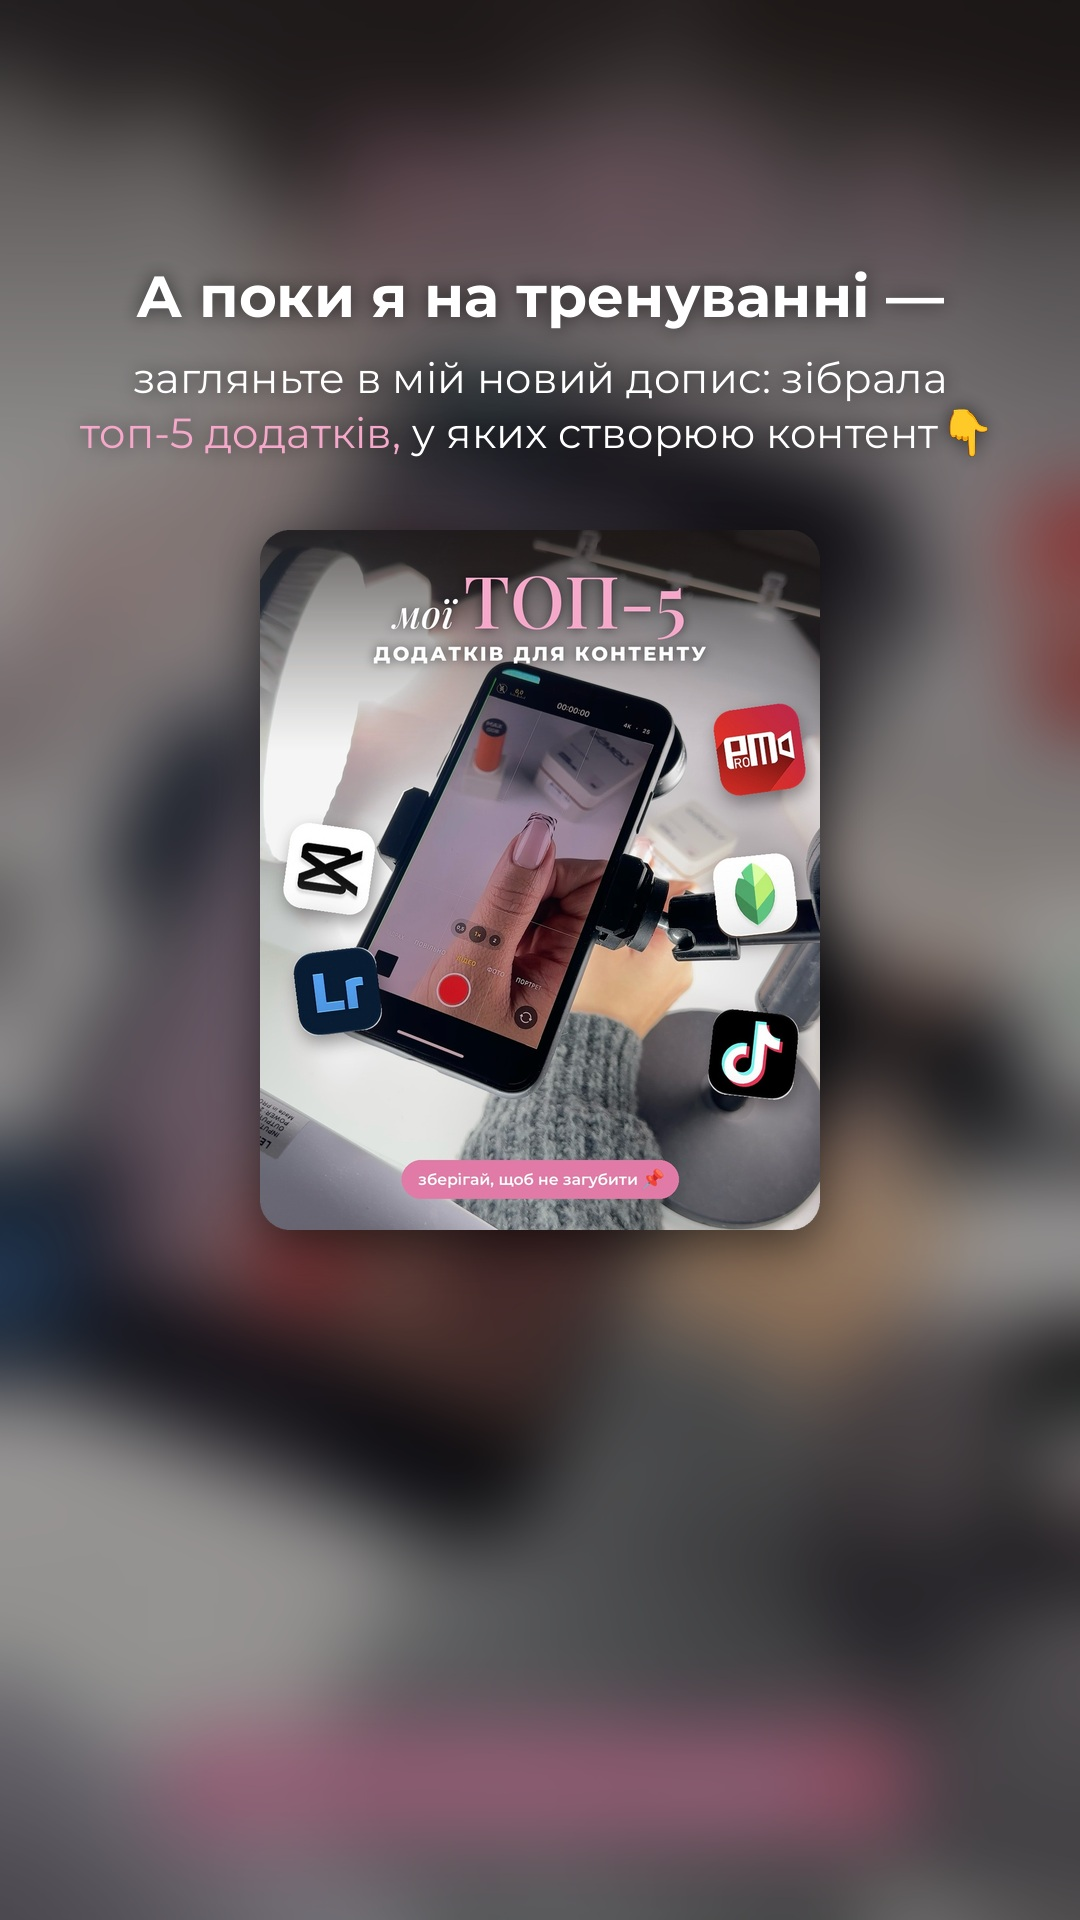
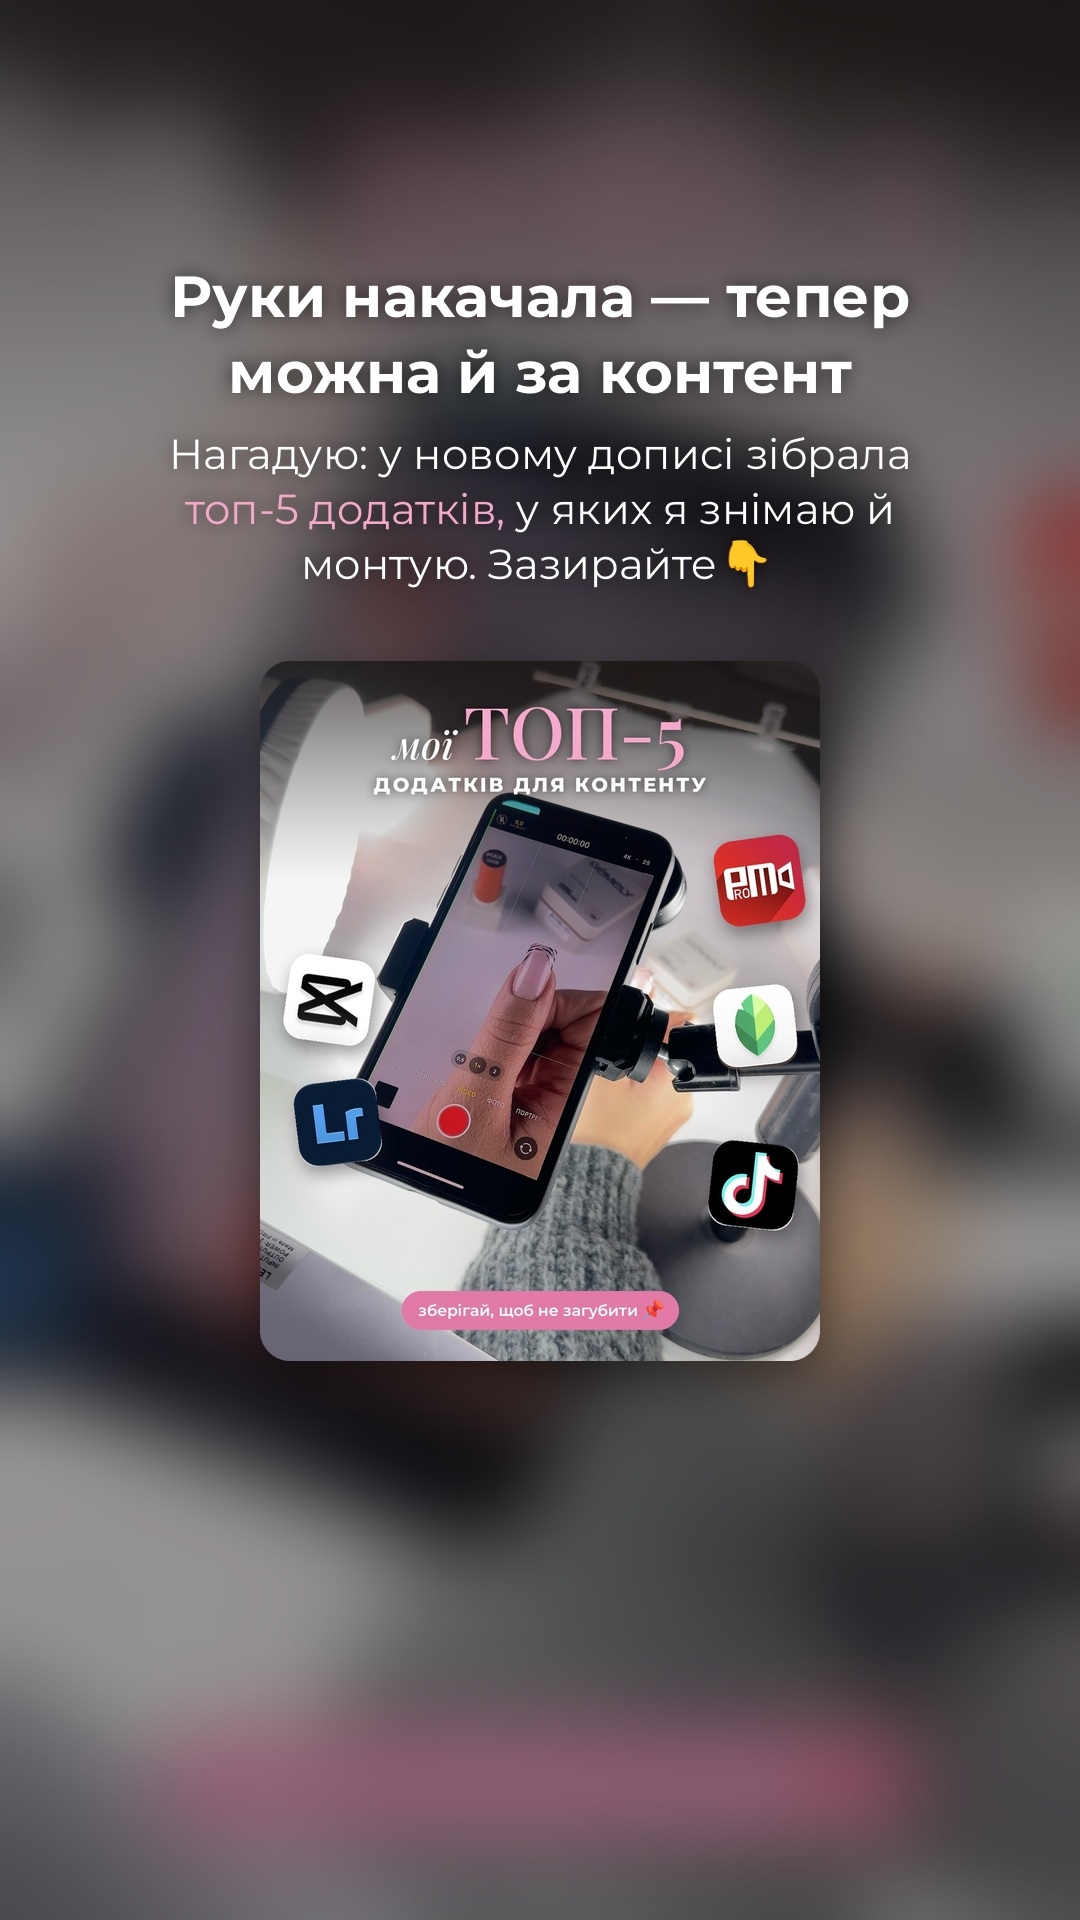
Story 4: post-gym wording leading to apps post
Claude-Session: https://claude.ai/code/session_0191xVL2hi5vHUvM1ix6pauC

Changed region(s): [[0.1222, 0.125, 0.9167, 0.7188], [0.0917, 0.2188, 0.1222, 0.25]]

diff --git a/stories/dystantsiyka/build.py b/stories/dystantsiyka/build.py
@@ -12,7 +12,7 @@ im.save(f'{OUT}/2.jpg',quality=94)
 # 4 bridge to apps post
 cov=Image.open(f'{R}/karusel_dodatky/01.jpg').convert('RGB')
 b4=fit(f'{R}/karusel_dodatky/01.jpg').filter(ImageFilter.GaussianBlur(40)); b4=Image.blend(b4,Image.new('RGB',(W,H),(30,24,24)),0.4)
-im,y=ctext(b4,260,'А поки я на тренуванні —','загляньте в мій новий допис: зібрала *топ-5 додатків*, у яких створюю контент','👇',shade=0,mw=920)
+im,y=ctext(b4,260,'Руки накачала — тепер можна й за контент','Нагадую: у новому дописі зібрала *топ-5 додатків*, у яких я знімаю й монтую. Зазирайте','👇',shade=0,mw=920)
 pw=560; ph=int(pw*1350/1080); px=(W-pw)//2; py=y+60
 sh=Image.new('L',(W,H),0); ImageDraw.Draw(sh).rounded_rectangle((px,py+14,px+pw,py+ph+14),radius=30,fill=140); sh=sh.filter(ImageFilter.GaussianBlur(24))
 im=Image.composite(Image.new('RGB',(W,H),(0,0,0)),im,sh)
